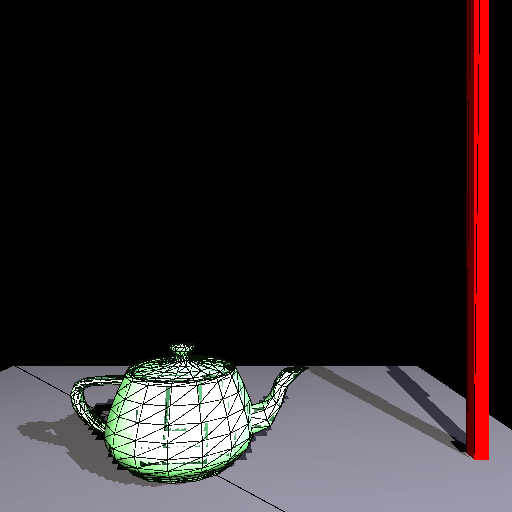
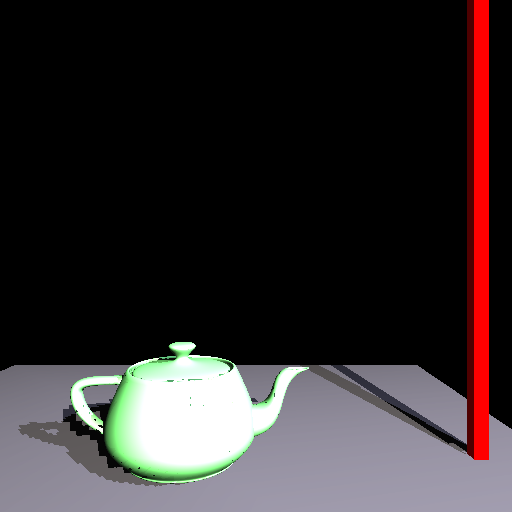
SHADOWS Polygon smoothing was writing coverage into the shadow signal
The shadow tutorials draw a wireframe over everything they render: a seam
along every triangle edge of the teapot, of the floor and of the pole.

shadow_1 enabled GL_POLYGON_SMOOTH.  Polygon smoothing folds a fragment's
coverage into its alpha, and alpha is what the tutorial reads its shadow
from -- GL_DEPTH_TEXTURE_MODE is GL_ALPHA and glAlphaFunc gates the
additive diffuse pass on it.  So every fragment on a facet boundary
carried an alpha that had nothing to do with the depth comparison, and
the diffuse pass treated the whole boundary as a special case.

That also settles what the density was doing.  A finer mesh has more
edges, not a filter that loses more to them, so the teapot goes back to
the sampling the scene asks for by default and the paragraph explaining
it as a depth-texture effect goes with it.  Teapot.steps stays: a scene
that wants a particular density can still say so.

The remaining glHint gets the description the pair used to share.

The screenshots are recaptured, and transforms_1 comes along because
regenerating the pages picks up the directdocs fix for class= markup.

Changed region(s): [[0.0938, 0.6562, 0.5938, 0.9688], [0.6562, 0.0, 0.9375, 0.9062]]

diff --git a/docs/tutorials/shadow_1.html b/docs/tutorials/shadow_1.html
@@ -116,11 +116,13 @@ check for extensions which *only* define new constants.
             sys.exit( testingcontext.REQUIRED_EXTENSION_MISSING )
 </div>
 	<div class="commentary">
-	<div class="paragraph indent-level-0">Configure some parameters to make for nice shadows
-        at the expense of some extra calculations</div>
+	<div class="paragraph indent-level-0">Ask for the texture coordinates to be interpolated across each
+        polygon in scene space rather than in screen space.  The shadow
+        lookup is a texture coordinate, so the cheaper screen-space
+        approximation would put the edge of a shadow in the wrong place on
+        any surface that is steeply angled away from the camera.</div>
 </div>
 	<div class="code-sample">        glHint(GL_PERSPECTIVE_CORRECTION_HINT, GL_NICEST)
-        glEnable( GL_POLYGON_SMOOTH )
 </div>
 	<div class="commentary">
 	<div class="paragraph indent-level-0">We create the geometry for our scene in a method to allow
@@ -182,14 +184,6 @@ check for extensions which *only* define new constants.
 	<div class="paragraph indent-level-0">This simple scene is a Teapot and a tall thin box on a flat
         box.  It's not particularly exciting, but it does let us see the
         shadows quite clearly.</div>
-	<div class="paragraph indent-level-8">The teapot asks for a coarse tessellation with its steps field.  A
-depth-texture lookup is a point sample of a rasterised surface, so the
-filter loses a band along every facet boundary of the geometry it is
-filtering, and the width of that band is set by the depth texture rather
-than by the mesh.  At the teapot's full NURBS sampling the facets are a
-pixel or two across, those bands meet, and the pot renders at ambient
-only.  A sampling close to the classic GLUT teapot's keeps the facets
-wide enough that what you see is the lit surface between them.</div>
 </div>
 	<div class="code-sample">        return Transform(
             children = [
@@ -212,7 +206,7 @@ wide enough that what you see is the lit surface between them.</div>
                     children = [
                         Shape(
                             DEF = 'Tea',
-                            geometry = Teapot( size = .5, steps = 4 ),
+                            geometry = Teapot( size = .5 ),
                             appearance = Appearance(
                                 material = Material(
                                     diffuseColor =( .5,1.0,.5 ),

diff --git a/docs/tutorials/transforms_1.html b/docs/tutorials/transforms_1.html
@@ -284,9 +284,9 @@ coordinates.
 	<div class="paragraph indent-level-0">
 	<img class=" wiki" src="transforms_1.py-screen-0007.png" alt="Perspective">
 	<img class=" wiki" src="transforms_1.py-screen-0006.png" alt="Perspective">
-	<a class="" href="class=clear-right">transforms_1.py-screen-0009.png Perspective</a>
+	<img class=" clear-right wiki" src="transforms_1.py-screen-0009.png" alt="Perspective">
 	<img class=" wiki" src="transforms_1.py-screen-0008.png" alt="Perspective">
-	<a class="" href="class=clear-right">transforms_1.py-screen-0011.png Perspective</a>
+	<img class=" clear-right wiki" src="transforms_1.py-screen-0011.png" alt="Perspective">
 	<img class=" wiki" src="transforms_1.py-screen-0010.png" alt="Perspective">
 </div>
 	<h2 class="title indent-level-8">Perspective Transformations</h2>

diff --git a/tests/shadow_1.py b/tests/shadow_1.py
@@ -86,10 +86,12 @@ class TestContext( BaseContext ):
         if not glInitShadowARB() or not glInitDepthTextureARB():
             print('Missing required extensions!')
             sys.exit( testingcontext.REQUIRED_EXTENSION_MISSING )
-        '''Configure some parameters to make for nice shadows
-        at the expense of some extra calculations'''
+        '''Ask for the texture coordinates to be interpolated across each
+        polygon in scene space rather than in screen space.  The shadow
+        lookup is a texture coordinate, so the cheaper screen-space
+        approximation would put the edge of a shadow in the wrong place on
+        any surface that is steeply angled away from the camera.'''
         glHint(GL_PERSPECTIVE_CORRECTION_HINT, GL_NICEST)
-        glEnable( GL_POLYGON_SMOOTH )
         '''We create the geometry for our scene in a method to allow
         later tutorials to subclass and provide more interesting scenes.
         '''
@@ -133,16 +135,7 @@ class TestContext( BaseContext ):
         """Create a simple VRML scenegraph to be rendered with shadows"""
         '''This simple scene is a Teapot and a tall thin box on a flat
         box.  It's not particularly exciting, but it does let us see the
-        shadows quite clearly.
-
-        The teapot asks for a coarse tessellation with its steps field.  A
-        depth-texture lookup is a point sample of a rasterised surface, so the
-        filter loses a band along every facet boundary of the geometry it is
-        filtering, and the width of that band is set by the depth texture rather
-        than by the mesh.  At the teapot's full NURBS sampling the facets are a
-        pixel or two across, those bands meet, and the pot renders at ambient
-        only.  A sampling close to the classic GLUT teapot's keeps the facets
-        wide enough that what you see is the lit surface between them.'''
+        shadows quite clearly.'''
         return Transform(
             children = [
                 Transform(
@@ -164,7 +157,7 @@ class TestContext( BaseContext ):
                     children = [
                         Shape(
                             DEF = 'Tea',
-                            geometry = Teapot( size = .5, steps = 4 ),
+                            geometry = Teapot( size = .5 ),
                             appearance = Appearance(
                                 material = Material(
                                     diffuseColor =( .5,1.0,.5 ),
